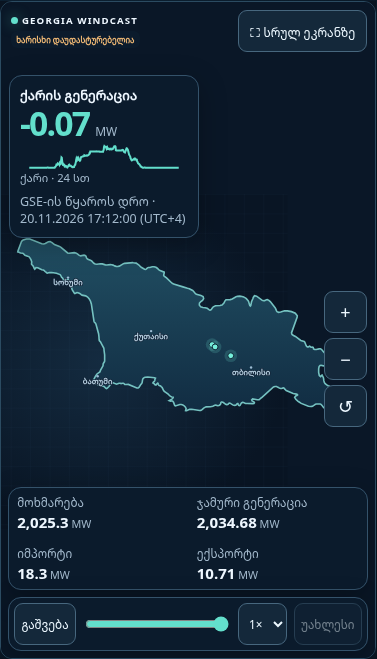
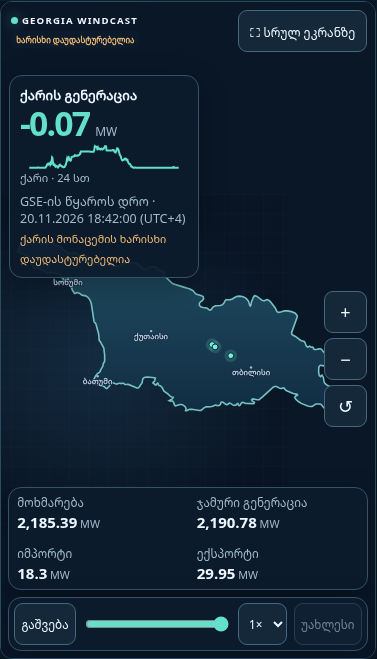
Clarify published balance differences and verify source evidence

diff --git a/streamlit_cloud/system_map_frontend/map.js b/streamlit_cloud/system_map_frontend/map.js
@@ -7,7 +7,9 @@ const words = {
     expand: "⛶ Fullscreen", exit: "⛶ Exit fullscreen", latest: "Latest", play: "Play", pause: "Pause",
     historical: "Historical playback", recent: "Recent source period", unconfirmed: "Quality unconfirmed",
     stale: "Stale reading", unavailable: "Unavailable", trend: "24 h wind trend", source: "GSE source time",
-    retrieved: "Retrieved", balance: "National balance", closure: "Generation + imports − exports − consumption",
+    retrieved: "Retrieved", balance: "National balance", closure: "Difference between published balance figures",
+    closureFormula: "Generation + imports − exports − consumption",
+    closureNote: "Arithmetic comparison only. Measuring grid imbalance requires separate system data.",
     missingClosure: "Balance check unavailable", provenance: "Sources and limitations",
     lines: "National gross total. Verified line-level records are unavailable.",
     zoomIn: "Zoom in", zoomOut: "Zoom out", reset: "Reset map", map: "Georgia geographic reference map",
@@ -21,7 +23,9 @@ const words = {
     expand: "⛶ სრულ ეკრანზე", exit: "⛶ გამოსვლა", latest: "უახლესი", play: "გაშვება", pause: "პაუზა",
     historical: "ისტორიული ჩანაწერები", recent: "ბოლო პერიოდი", unconfirmed: "ხარისხი დაუდასტურებელია",
     stale: "მოძველებული", unavailable: "მიუწვდომელია", trend: "ქარი · 24 სთ", source: "GSE-ის წყაროს დრო",
-    retrieved: "მიღების დრო", balance: "ეროვნული ბალანსი", closure: "გენერაცია + იმპორტი − ექსპორტი − მოხმარება",
+    retrieved: "მიღების დრო", balance: "ეროვნული ბალანსი", closure: "გამოქვეყნებული მაჩვენებლების შეუსაბამობა",
+    closureFormula: "გენერაცია + იმპორტი − ექსპორტი − მოხმარება",
+    closureNote: "ეს არითმეტიკული შედარებაა. სისტემის ფიზიკური დისბალანსის დასადგენად ცალკე გაზომვებია საჭირო.",
     missingClosure: "ბალანსის შემოწმება მიუწვდომელია", provenance: "წყაროები და შეზღუდვები",
     lines: "ეროვნული ჯამი. ხაზების მიხედვით გადამოწმებული მონაცემები მიუწვდომელია.",
     zoomIn: "გადიდება", zoomOut: "შემცირება", reset: "რუკის აღდგენა", map: "საქართველოს საცნობარო რუკა",
@@ -166,8 +170,13 @@ function readings() {
   el("national").replaceChildren(...["consumption", "generation", "import", "export"].map(k => metric(k, values[k])));
   el("mix").replaceChildren(...["hydro", "thermal", "wind", "solar"].map(k => metric(k, values[k])));
   text("retrieved", t("retrieved") + " · " + localTime(period?.retrieved));
-  text("closure", Number.isFinite(period?.residual) ? t("closure") + " = " + fmt(period.residual) : t("missingClosure"));
-  el("closure").dataset.mismatch = String(Number.isFinite(period?.residual) && Math.abs(period.residual) > 1);
+  const residual = period?.residual;
+  const hasBalance = Number.isFinite(residual);
+  const signedDifference = hasBalance && residual >= .005 ? "+" + fmt(residual) : fmt(residual);
+  text("closure", hasBalance ? t("closure") + " · " + signedDifference : t("missingClosure"));
+  el("closure").title = hasBalance ? t("closureFormula") : "";
+  text("closure-note", t("closureNote"));
+  el("closure-note").hidden = !hasBalance;
   interchange("imports", "import", period);
   interchange("exports", "export", period);
   const slider = el("time");

diff --git a/streamlit_cloud/system_map_frontend/map.css b/streamlit_cloud/system_map_frontend/map.css
@@ -51,10 +51,12 @@ h1,h2,p{margin:0}
 .details{padding:20px 1px}
 .section-head{display:flex;align-items:baseline;justify-content:space-between;flex-wrap:wrap;gap:6px;margin-bottom:11px}
 h2{font-size:1.15rem}
-#retrieved,#closure,#fetch-status,footer{color:var(--muted);font-size:.85rem}
+#retrieved,.reconciliation,#fetch-status,footer{color:var(--muted);font-size:.85rem}
 #mix{gap:8px}
 #mix .metric,.exchanges article{background:#102235;border:1px solid #304b62;border-radius:12px}
-#closure,#fetch-status{margin:10px 0}
+.reconciliation,#fetch-status{margin:10px 0}
+#closure{font-variant-numeric:tabular-nums}
+#closure-note{margin-top:3px;font-size:.78rem}
 .exchanges{display:grid;grid-template-columns:repeat(2,minmax(0,1fr));gap:10px}
 .exchanges article{padding:14px;display:grid;gap:.4rem}
 .exchanges strong{font-size:1.35rem}.exchanges p{color:var(--muted);font-size:.85rem}
@@ -85,7 +87,6 @@ a{color:#8fdbff}
   #stage:is(.immersive,:fullscreen) #trend{display:none}
 }
 
-#closure[data-mismatch="true"]{color:var(--amber)}
 
 @media(max-height:480px){
   #stage:is(.immersive,:fullscreen) .stage-bottom{gap:4px}

diff --git a/streamlit_cloud/system_map_frontend/index.html b/streamlit_cloud/system_map_frontend/index.html
@@ -47,7 +47,8 @@
   <section class="details" aria-labelledby="balance-heading">
     <div class="section-head"><h2 id="balance-heading"></h2><small id="retrieved"></small></div>
     <div id="mix" class="strip"></div>
-    <p id="closure"></p><p id="fetch-status" hidden></p>
+    <div class="reconciliation"><p id="closure"></p><p id="closure-note" hidden></p></div>
+    <p id="fetch-status" hidden></p>
     <div class="exchanges"><article id="imports"></article><article id="exports"></article></div>
     <footer><a href="https://www.gse.com.ge/" target="_blank" rel="noopener">GSE</a> · <a id="provenance" href="https://github.com/GiorgiKhorbaladze/Georgia-WindCast/blob/main/docs/sources/system-snapshot.md" target="_blank" rel="noopener"></a></footer>
   </section>

diff --git a/streamlit_cloud/tests/test_system_snapshot.py b/streamlit_cloud/tests/test_system_snapshot.py
@@ -60,11 +60,23 @@ def test_signed_line_and_subtotal_reconcile_with_collector(file):
     wind = parse_wind_export(body)
     assert label == same_label == wind.period_label_utc
     assert balance.wind == wind.value_mw
+    expected = {
+        "real_act_15112026_0009.xml": (1075.829346, 313.713287, 73.599297, 0, 1463.141968, 1536.535400,
+                                     73.393583, 0),
+        "real_nre_15112026_0003.xml": (1171.450562, 313.832825, 91.333824, 0, 1583.024292, 1597.384644,
+                                     32.746205, 30.897966),
+    }
+    assert tuple(getattr(balance, field) for field in (*BLOCKS, "imports", "exports")) == pytest.approx(
+        expected[file.name], abs=1e-8, rel=0
+    )
     identifiers = [(row.block, row.identifier, row.is_subtotal) for row in ties]
     assert all(row.identifier for row in ties) and len(identifiers) == len(set(identifiers))
     russia = [row for row in ties if "RUSSIA" in row.block]
     assert {row.identifier for row in russia if not row.is_subtotal} == {"Salkhino", "Java", "Nakaduli"}
-    assert any(row.is_subtotal for row in russia)
+    subtotal, = (row for row in russia if row.is_subtotal)
+    assert subtotal.mw == 0
+    assert sum(row.mw for row in russia if not row.is_subtotal) > 32
+    assert len([row for row in ties if not row.is_subtotal]) == 3
     assert any(row.identifier == "Java" and row.quality == "BLS" for row in russia)
     line_blocks = {row.block for row in ties if not row.is_subtotal}
     signed = [row.mw for row in ties if not row.is_subtotal or row.block not in line_blocks]
@@ -75,3 +87,24 @@ def test_signed_line_and_subtotal_reconcile_with_collector(file):
         assert residual == pytest.approx(-12.512113)
     else:
         assert residual == pytest.approx(0, abs=.01)
+
+
+def test_audited_1712_period_preserves_all_eight_values_and_signed_difference():
+    # Archived aggregate row from data commit ae1fe3f, 20 November 2026 17:12 Tbilisi.
+    label = LABEL.replace(day=20, hour=13, minute=12)
+    row = replace(
+        ROW, period_label_utc=label, period_label_local="20.11.2026 17:12:00",
+        retrieved_at_utc=label + timedelta(minutes=3, seconds=34),
+        hydro_mw=1602.259766, thermal_mw=424.108429, wind_mw=-0.071, solar_mw=8.629999,
+        generation_mw=2034.683594, consumption_mw=2025.301025, import_mw=18.299999,
+        export_mw=10.714442, quality="hydro:NRE;thermal:SUB;wind:ACT;solar:SUB;generation:NRE;consumption:NRE",
+    )
+    period, = period_payload([row], label + timedelta(minutes=4), False)
+    assert period["label"] == "20.11.2026 17:12:00"
+    assert period["retrieved"] == "20.11.2026 17:15:34"
+    assert period["status"] == "unconfirmed" and period["wind_confirmed"]
+    assert period["values"] == {
+        name: getattr(row, f"{name}_mw") for name in (*BLOCKS, "import", "export")
+    }
+    assert period["residual"] == pytest.approx(16.968126)
+    assert row.hydro_mw + row.thermal_mw + row.wind_mw + row.solar_mw - row.generation_mw == pytest.approx(.243600)

diff --git a/docs/evidence/premium-system-map/reconciliation.md b/docs/evidence/premium-system-map/reconciliation.md
@@ -1,0 +1,58 @@
+# GSE national figures reconciliation
+
+Review date 20 November 2026, Asia/Tbilisi. The audit uses the immutable [balance archive](https://github.com/GiorgiKhorbaladze/Georgia-WindCast/blob/ae1fe3f683741a530be9dba9003080c8418ea2d3/balance/2026/11/2026-11-20.csv) and [wind archive](https://github.com/GiorgiKhorbaladze/Georgia-WindCast/blob/ae1fe3f683741a530be9dba9003080c8418ea2d3/gse/2026/11/2026-11-20.csv) at data commit `ae1fe3f683741a530be9dba9003080c8418ea2d3`. The 290 source labels run from 04:00 through 18:27 Tbilisi. All figures are three-minute average power in MW.
+
+## Archived values
+
+| Source time (Tbilisi) | Hydro | Thermal | Wind | Solar | Generation | Consumption | Gross import | Gross export | Signed difference |
+| --- | ---: | ---: | ---: | ---: | ---: | ---: | ---: | ---: | ---: |
+| 15:54 | 1305.245483 | 404.346008 | −0.065 | 8.629999 | 1717.505127 | 1964.221069 | 222.636745 | 28.402201 | −52.481398 |
+| 16:00 | 1420.197998 | 413.924835 | −0.065 | 8.629999 | 1841.357788 | 1975.141113 | 102.588276 | 19.094099 | −50.289148 |
+| 16:09 | 1537.552246 | 422.547485 | −0.075 | 8.629999 | 1968.654785 | 1937.714600 | 18.299999 | 1.229059 | +48.011125 |
+| 17:12 | 1602.259766 | 424.108429 | −0.071 | 8.629999 | 2034.683594 | 2025.301025 | 18.299999 | 10.714442 | +16.968126 |
+
+The signed difference is generation + gross import − gross export − consumption. Absolute differences exceeded 1 MW in **195 of 290** periods and 10 MW in **83 of 290**. The exact median on this pin is **4.3114845 MW**, compared with about 4.40 MW in the independent review. The maximum is **52.481398 MW**. The generation subtotal comparison is separate. Hydro + thermal + wind + solar was 0.243600 MW above published total generation at 17:12, and differed by more than 1 MW in 84 periods. At 16:09 the generation subtotal was within 0.000055 MW even though the national difference was over 48 MW.
+
+The 290 wind records matched their balance records on source label, retrieval timestamp, payload SHA-256 and unrounded wind MW. The 17:12 record was retrieved at 17:15:34.824454 Tbilisi. The elapsed time from the source label to collector retrieval across the sample ranged from 213 to 962 seconds, with a median of 579 seconds. This measures collector delay, not measurement timing within GSE. The 17:12 generation and consumption records carry non-confirming source flags. The official meaning of those flags is unverified. Neither receipt lag nor quality flags establish a causal explanation. The archive stores all eight values together under each label. It cannot demonstrate that upstream measurements were simultaneous.
+
+## Original XML evidence and limits
+
+The existing checked-in GSE originals for [15 November 00:09](../../../backend/tests/fixtures/gse/real_act_15112026_0009.xml) and [15 November 00:03](../../../backend/tests/fixtures/gse/real_nre_15112026_0003.xml) provide direct evidence of source row selection and sign. Both files have an explicit three-minute export label. GSE supplies named individual `Intercha` rows in one block with a zero `IntchSum`. The other three blocks in these examples have only subtotals. The collector uses individual rows where present and the subtotal otherwise. Positive signs contribute to gross import, negative signs contribute by magnitude to gross export. The originals contain no duplicate block/kind/identifier among the applicable rows. They show that a subtotal can differ from its individual rows and that incomplete line coverage prevents whole-network line reconciliation. A non-confirming individual quality flag appears in both records. Substitution semantics and asset assignments are still unverified.
+
+At 00:09, the selected rows yield 73.393583 MW imports, zero exports and +0.000151 MW arithmetic difference. At 00:03, they yield 32.746205 MW imports, 30.897966 MW exports and −12.512113 MW difference directly from the source fields and selection rule. A subtotal-only calculation leaves −45.258318 MW at 00:03. The fixtures therefore confirm that the source fields and documented aggregation rule can produce a discrepancy before rounding, storage or rendering. They do not identify why the reported fields disagree or validate line coverage for 20 November.
+
+Attempts to retrieve the exact 20 November XML for 15:54, 16:09 and 17:12 from the documented GSE export host received a cloud proxy CONNECT denial. The public GSE site received the same denial. No original XML or same-timestamp operator page was obtained for those periods. The pinned wind/balance archive hash match cannot substitute for the source bytes. Source timing, quality semantics, omitted lines and the interpretation of individual rows versus subtotals remain hypotheses for those periods. No measurement, sign or archive row was adjusted. No new collection was enabled.
+
+## Reproduce the archive arithmetic
+
+Fetch the data ref in the repository and run the following from its root. The reads use the pinned commit even if the branch has advanced.
+
+```sh
+git fetch origin data
+python - <<'PY'
+import csv
+from decimal import Decimal
+from statistics import median
+from subprocess import check_output
+
+commit = "ae1fe3f683741a530be9dba9003080c8418ea2d3"
+def records(kind):
+    blob = f"{commit}:{kind}/2026/11/2026-11-20.csv"
+    return list(csv.DictReader(check_output(["git", "show", blob], text=True).splitlines()))
+
+balance = records("balance")
+wind = {row["period_label_utc"]: row for row in records("gse")}
+differences = []
+for row in balance:
+    generation, imports, exports, load = (
+        Decimal(row[f"{key}_mw"]) for key in ("generation", "import", "export", "consumption")
+    )
+    differences.append(abs(generation + imports - exports - load))
+    match = wind[row["period_label_utc"]]
+    for key in ("period_label_local", "retrieved_at_utc", "payload_sha256"):
+        assert row[key] == match[key]
+    assert Decimal(row["wind_mw"]) == Decimal(match["value_mw"])
+print(len(balance), sum(d > 1 for d in differences), sum(d > 10 for d in differences),
+      median(differences), max(differences))
+PY
+```

diff --git a/docs/sources/system-snapshot.md b/docs/sources/system-snapshot.md
@@ -6,7 +6,7 @@ The System map uses a local Streamlit component to place the national wind readi
 
 - **Consumption, total generation, hydro, thermal, wind and solar** come from the corresponding national blocks in one GSE three-minute XML export. **Import and export** are the collector's gross national totals from the same period. Values represent average power in **MW**. The reported wind figure is national and has no connection to any wind-site marker.
 - The source label and collector retrieval time are shown separately in Tbilisi time. A source label more than ten minutes old is stale. A recent period with missing or non-ACT quality metadata in any of the six national blocks, or a failed refresh, has unconfirmed quality. Raw quality metadata and payload hashes are retained in the archive and excluded from component messages.
-- Zero displays as zero. Missing readings display as a dash. The signed balance residual is generation + imports − exports − consumption, calculated from unrounded values. Its magnitude is highlighted above 1 MW as a display threshold. A nonzero residual is retained, and a missing term leaves the check unavailable.
+- Zero displays as zero. Missing readings display as a dash. The signed balance residual is generation + imports − exports − consumption, calculated from unrounded values. The interface labels this as a difference between published balance figures and explains that a physical imbalance requires separate measurements. A nonzero difference is retained, and a missing term leaves the check unavailable.
 - The trend breaks at gaps. The comparison appears only when both wind readings are present, their quality passes the existing ACT check, and their source labels are exactly three minutes apart. The playback slider selects actual stored periods within the preceding 24 hours. Historical playback is labeled explicitly, skips missing timestamps without filling data, and updates all cards together. Speed changes the presentation interval, independent of the source cadence. **Latest** returns to the refreshed view.
 - Frequency remains out of scope. The separate one-minute GSE export requires a source and permission review before collection.
 
@@ -19,6 +19,8 @@ The two fixtures label Azerbaijan, Armenia, and Turkey through subtotals only. T
 The public archive has no per-line history, independent mapping of GSE identifiers, or comparable per-flow quality fields. Imports and exports panels therefore show national gross totals and say that line-level readings are unavailable. No route, endpoint, line-specific measurement, geographic or schematic flow animation is displayed. No ingestion, archive schema or scheduled workflow was expanded.
 
 If approved line-level collection and independently verified geometry become available, animate only time-qualified, validated directional readings. The motion rate would be illustrative and would have no physical meaning. Historical animation would require actual archived line records for the selected period.
+
+See the [pinned archive reconciliation and original XML evidence](../evidence/premium-system-map/reconciliation.md) for audited periods, the reproduced statistics and source access limits.
 
 ## Release and data acquisition gates
 

diff --git a/docs/evidence/premium-system-map/README.md b/docs/evidence/premium-system-map/README.md
@@ -7,9 +7,11 @@ Captured in Chromium against the local Streamlit app with real readings from the
 | English | [Normal](en-desktop.png) | [Fullscreen](en-desktop-expanded.png) | [Normal](en-mobile.png) | [Immersive](en-mobile-expanded.png) |
 | Georgian | [Normal](ka-desktop.png) | [Fullscreen](ka-desktop-expanded.png) | [Normal](ka-mobile.png) | [Immersive](ka-mobile-expanded.png) |
 
-[Desktop exchange panels](exchange-panels-desktop.png) · [Mobile exchange panels](exchange-panels-mobile.png) · [Source and licensing notes](../../sources/system-snapshot.md)
+[English desktop balance](exchange-panels-desktop.png) · [English mobile balance](exchange-panels-mobile.png) · [Georgian desktop balance](ka-exchange-panels-desktop.png) · [Georgian mobile balance](ka-exchange-panels-mobile.png)
 
-In the 20 November 2026 QA run, the displayed 17:12 Tbilisi readings matched the balance archive. The separate wind archive carried the same source period, value and payload SHA-256. Both archives showed retrieval at 17:15:34 Tbilisi. The national equation left a **+16.968126 MW** residual, displayed as **16.97 MW**. The comparison uses stored data and does not establish why the source totals differ.
+[Pinned archive reconciliation and original XML evidence](reconciliation.md) · [Source and licensing notes](../../sources/system-snapshot.md)
+
+In the 20 November 2026 QA run, the displayed 17:12 Tbilisi readings matched the balance archive. The separate wind archive carried the same source period, value and payload SHA-256. Both archives showed retrieval at 17:15:34 Tbilisi. The national equation left a **+16.968126 MW** residual, displayed as **+16.97 MW**. The comparison uses stored data and does not establish why the source totals differ.
 
 Run the browser check with the app running and Playwright available to Node. The script tests English and Georgian, zoom, drag pan and reset, site activation, recorded timestamps and playback, button and Escape exits in native and fallback modes, retained map state, height-only resizing, 390 px fallback rotation, reduced-motion preferences, stale/missing display and horizontal overflow. It checks that the map uses fewer than 50 SVG nodes and logs time to render from navigation. Set `SCREENSHOT_DIR` to capture screenshots. Set `BROWSER_ENGINE` to `firefox` or `webkit` to use an installed Playwright engine, or set `BROWSER_EXECUTABLE` to override its executable.
 
